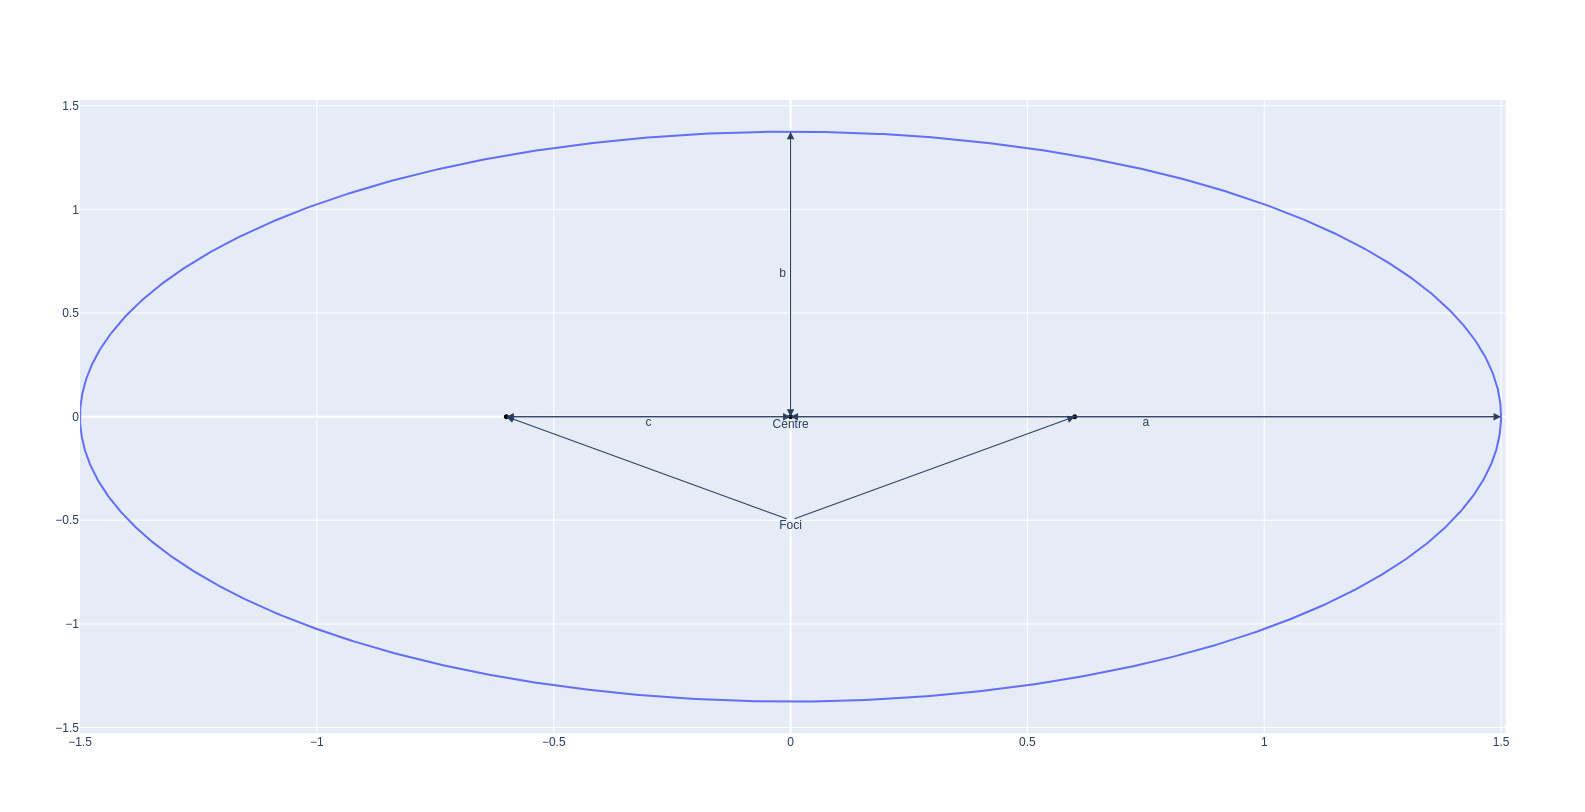
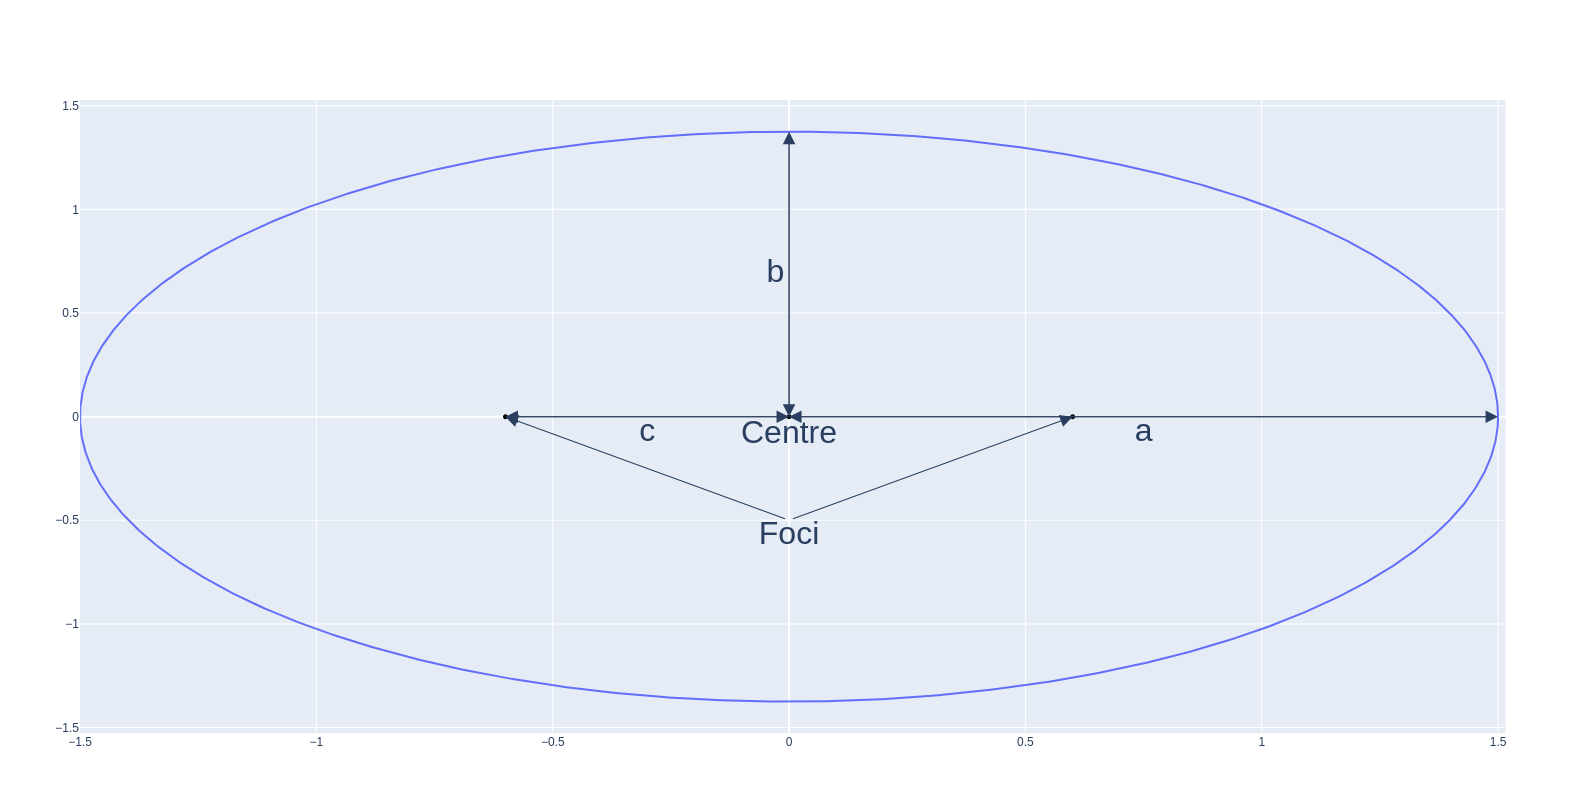
fix(labelled): increase text and arrow size for clarity

diff --git a/label_ellipse.py b/label_ellipse.py
@@ -1,7 +1,8 @@
 import plotly.graph_objects as go
 
-ARROW_SIZE = 1.5
+ARROW_SIZE = 2.5
 ARROW_HEAD = 2
+TEXT_SIZE = 32
 
 
 def add_labels_to_ellipse(fig: go.Figure, a: float, b: float, c: float) -> go.Figure:
@@ -40,7 +41,12 @@ def _label_centre(fig: go.Figure) -> go.Figure:
     )
     _ = fig.add_trace(
         go.Scatter(
-            x=[0], y=[-0.01], mode="text", text=["Centre"], textposition="bottom center"
+            x=[0],
+            y=[-0.01],
+            mode="text",
+            text=["Centre"],
+            textposition="bottom center",
+            textfont={"size": TEXT_SIZE},
         )
     )
 
@@ -72,7 +78,12 @@ def _label_semi_major(fig: go.Figure, a: float) -> go.Figure:
     )
     _ = fig.add_trace(
         go.Scatter(
-            x=[a / 2], y=[0], mode="text", text=["a"], textposition="bottom center"
+            x=[a / 2],
+            y=[0],
+            mode="text",
+            text=["a"],
+            textposition="bottom center",
+            textfont={"size": TEXT_SIZE},
         )
     )
 
@@ -104,7 +115,12 @@ def _label_semi_minor(fig: go.Figure, b: float) -> go.Figure:
     )
     _ = fig.add_trace(
         go.Scatter(
-            x=[-0.01], y=[b / 2], mode="text", text=["b"], textposition="middle left"
+            x=[-0.01],
+            y=[b / 2],
+            mode="text",
+            text=["b"],
+            textposition="middle left",
+            textfont={"size": TEXT_SIZE},
         )
     )
 
@@ -152,7 +168,12 @@ def _label_foci(fig: go.Figure, c: float) -> go.Figure:
     )
     _ = fig.add_trace(
         go.Scatter(
-            x=[0], y=[-0.5], mode="text", text=["Foci"], textposition="bottom center"
+            x=[0],
+            y=[-0.5],
+            mode="text",
+            text=["Foci"],
+            textposition="bottom center",
+            textfont={"size": TEXT_SIZE},
         )
     )
 
@@ -184,7 +205,12 @@ def _label_offset(fig: go.Figure, c: float) -> go.Figure:
     )
     _ = fig.add_trace(
         go.Scatter(
-            x=[-(c / 2)], y=[0], mode="text", text=["c"], textposition="bottom center"
+            x=[-(c / 2)],
+            y=[0],
+            mode="text",
+            text=["c"],
+            textposition="bottom center",
+            textfont={"size": TEXT_SIZE},
         )
     )
 
